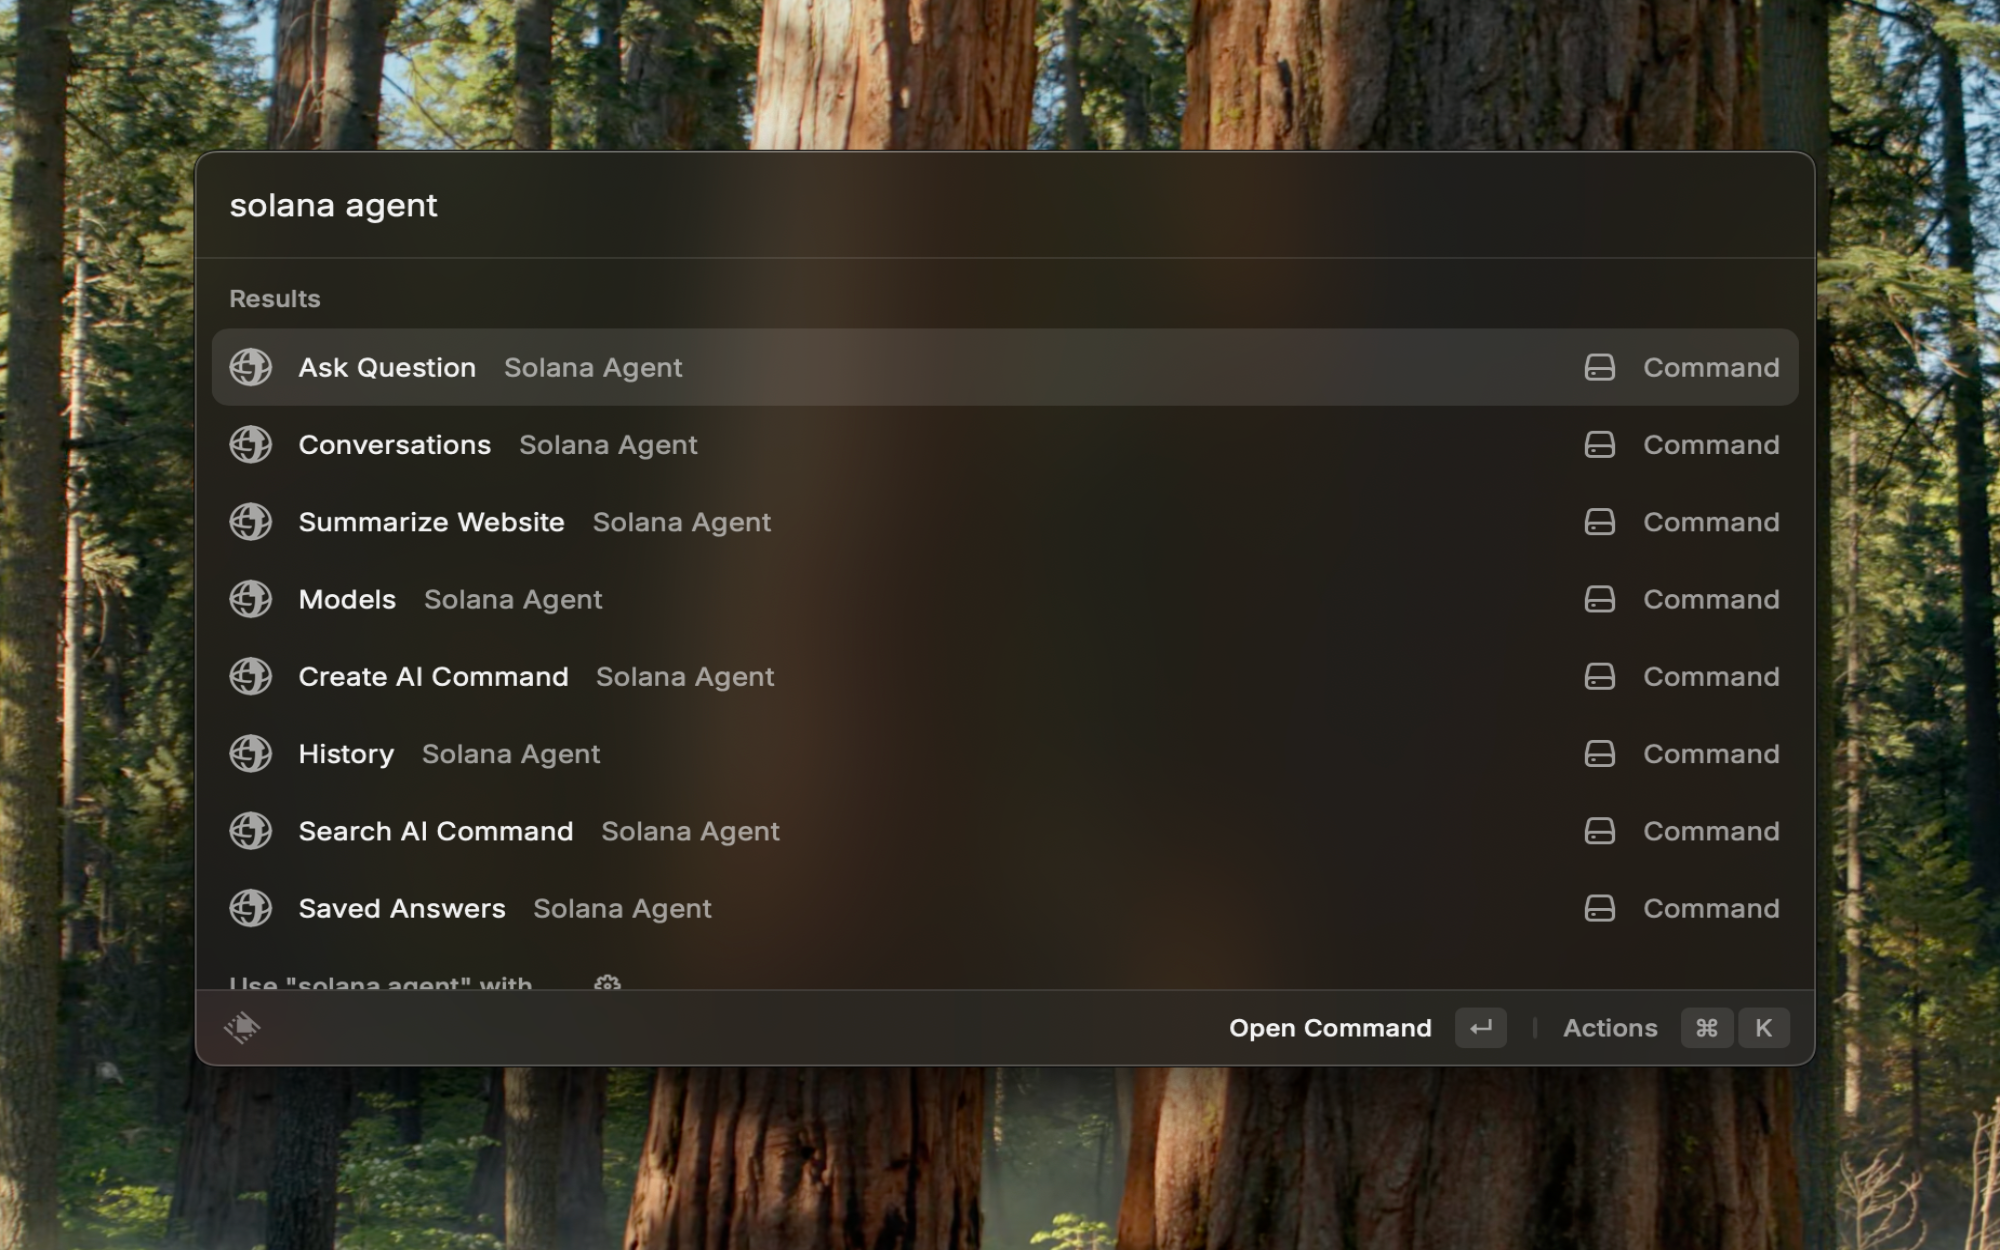
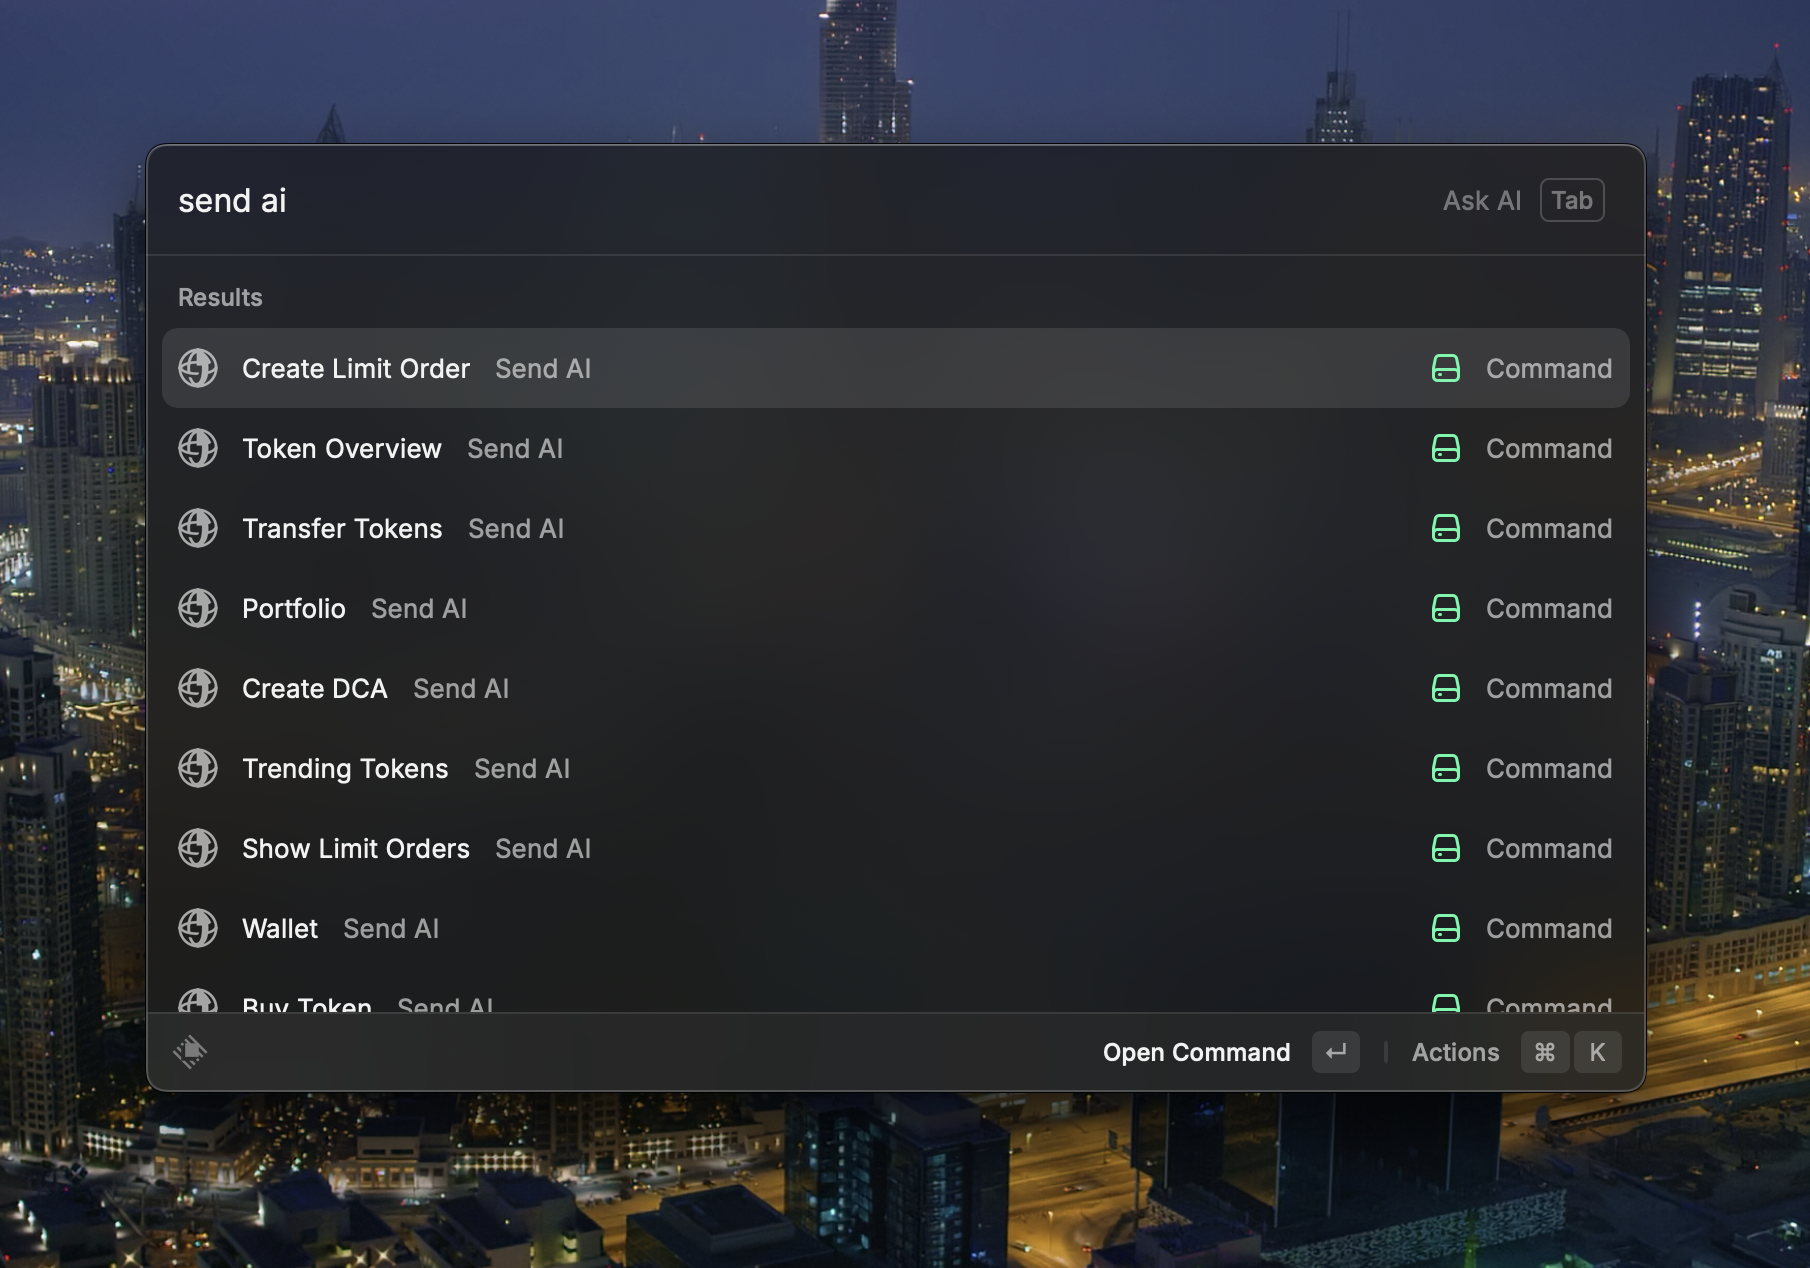
update: readme

diff --git a/README.md b/README.md
@@ -2,80 +2,97 @@
 <img width=100 src="assets/icon@dark.png">
 </p>
 
-<h1 align="center">Solana Agent</h1>
+<h1 align="center">Send AI</h1>
 
 <h3 align="center">
-Interact with the Solana blockchain from Raycast using AI models
+Interact with the Solana blockchain from Raycast using AI
 </h3>
 
 ![Conversation View](metadata/1.png)
 
-# Features
+# Overview
 
-### Ask anything
+Send AI is a Raycast extension that allows you to interact with the Solana blockchain using natural language commands. Manage your wallet, trade tokens, check portfolios, and perform various DeFi operations directly from Raycast.
 
-Interact with your Solana wallet straight from Raycast. Ask anything about your wallet, balance, carry out swaps, transfers, and more.
+# Commands
 
-![Ask anything](metadata/2.png)
+## Trading & Wallet Management
 
-### Personalized for you, really
+- **Buy Token** - Purchase tokens using SOL
+- **Sell Token** - Sell your tokens for SOL
+- **Transfer SPL** - Transfer SPL tokens to another wallet address
+- **Get Wallet** - View your Send AI wallet information
+- **Get Portfolio** - View your complete token portfolio
 
-Customize the model to your liking. Create and edit custom engines beyond your creativity.
+## Token Information
 
-![Custom model](metadata/3.png)
+- **Token Overview** - Get detailed information about any token
+- **Trending Tokens** - View the current trending tokens on Solana
 
-### Keep continue, with you
+## Advanced Trading
 
-Continue talking about everything right where you left off. Be pro without from zero.
+- **Create DCA** - Set up Dollar Cost Averaging orders
+- **Create Limit Order** - Create limit orders for trading
+- **Show Limit Orders** - View all your active limit orders
 
-![Initial set-up](metadata/7.png)
+# AI Actions
 
-### Use AI commands and create your own
+The extension includes powerful AI actions that you can trigger with natural language:
 
-Process text taken from anywhere (selected text, clipboard text, opened web page) and
-insert the result into the frontmost application or copy it to the clipboard.
+## Balance & Portfolio
 
-![Search AI commands and create a quicklink to the command and use it easily](metadata/8.png)
+- **Balance** - Check your SOL balance
+- **Get SOL Balance** - Get your SOL balance specifically
+- **Get Token Balance** - Check balances of all your tokens
+- **Get Portfolio** - View your complete portfolio with USD values
 
-# Models
+## Trading Operations
 
-GPT-4o model supports vision capabilities, which can be enabled in the Models Command when creating or editing a model.
+- **Buy Token** - Buy tokens using SOL with natural language
+- **Sell Token** - Sell tokens for SOL
+- **Fetch Price** - Get current token prices in USDC
+- **Get Price History** - View token price charts and history
 
-### Custom Models
+## Transfers
 
-Modify the preferences properties to configure the API Endpoint and use custom models.
+- **Transfer** - Send SOL to another wallet address
+- **Transfer SPL** - Transfer SPL tokens to another address
+- **Get Wallet Address** - Get your wallet's public key
 
-# How to use
+## Token Information
 
-This extension requires a valid `API key` as your API Key from [OpenAI](https://platform.openai.com/account/api-keys) with a `pay-as-you-go` plan account (**you'll get a `429` error if you're on a `free-tier` account**), a valid base 58 `Secret Key` secret key for your Solana wallet, and a valid RPC URL for the Solana mainnet network.
+- **Get Token** - Get comprehensive token information
+- **Get Token Data by Ticker** - Look up tokens by their symbol/ticker
+- **Get Trending Tokens** - Fetch currently trending tokens
+- **Rugcheck** - Check if a token is potentially a rug pull
 
-![Initial set-up](metadata/6.png)
+## DeFi & Advanced Features
 
-> All the preferences value will be stored locally using [Preferences API](https://developers.raycast.com/api-reference/preferences)
+- **Bridge** - Generate cross-chain bridge URLs
+- **Onramp** - Create MoonPay URLs to buy SOL with fiat
+- **Get Top LST** - View top Liquid Staking Tokens
+- **Lulo Get APY** - Check APY rates on Lulo protocol
+- **Lulo Lend** - Lend tokens through Lulo protocol
+- **Sanctum Get LST APY** - Get LST APY rates on Sanctum
 
-# Preferences
+## Token Creation
 
-All preferences properties list that can be customize through `Raycast Settings > Extensions > Solana Agent`
+- **Launch Pump Fun Token** - Create and launch new tokens on Pump.fun
 
-| Properties               | Label                  | Value                               | Required | Default | Description                                                                                                      |
-| ------------------------ | ---------------------- | ----------------------------------- | -------- | ------- | ---------------------------------------------------------------------------------------------------------------- |
-| `apiKey`                 | API Key                | `string`                            | `true`   | `empty` | Your personal OpenAI API key                                                                                     |
-| `rpcUrl`                 | RPC URL                | `string`                            | `true`   | `empty` | Your Solana RPC URL                                                                                              |
-| `isAutoSaveConversation` | Auto-save Conversation | `boolean`                           | `true`   | `true`  | Auto-save every conversation that you had with the model                                                         |
-| `isHistoryPaused`        | Pause History          | `boolean`                           | `false`  | `false` | Pause the history of the conversation                                                                            |
-| `isAutoLoadText`         | Auto-load              | `boolean`                           | `false`  | `false` | Load selected text from your frontmost application to the `question bar` or `full text input form` automatically |
-| `isAutoFullInput`        | Use Full Text Input    | `boolean`                           | `false`  | `false` | Switch to `full text input form` from `question bar` automatically whenever you want to ask or type a question   |
-| `isAutoTTS`              | Text-to-Speech         | `boolean`                           | `false`  | `false` | Enable auto text-to-speech everytime you get a generated answer                                                  |
-| `useApiEndpoint`         | Use API Endpoint       | `boolean`                           | `false`  | `false` | Change the OpenAI's default API endpoint to custom endpoint                                                      |
-| `apiEndpoint`            | API Endpoint           | `string`                            | `false`  | `empty` | Custom API endpoint                                                                                              |
-| `useProxy`               | Use Proxy              | `boolean`                           | `false`  | `false` | Each question request will be passed through the proxy                                                           |
-| `proxyProtocol`          | Proxy Protocol         | `http`, `https`, `socks4`, `socks5` | `false`  | `http`  | Proxy protocol option                                                                                            |
-| `proxyHost`              | Proxy Host             | `string`                            | `false`  | `empty` | Proxy host value                                                                                                 |
-| `proxyUsername`          | Proxy Username         | `string`                            | `false`  | `empty` | Proxy username value                                                                                             |
-| `proxyPassword`          | Proxy Password         | `string`                            | `false`  | `empty` | Proxy password value                                                                                             |
-| `useAzure`               | Use Azure OpenAI       | `boolean`                           | `true`   | `false` | Use Azure OPENAI rather than OPENAI                                                                              |
-| `azureEndpoint`          | Azure Endpoint         | `string`                            | `false`  | `empty` | Azure OpenAI resource endpoint                                                                                   |
-| `azureDeploymentName`    | Azure Deployment       | `string`                            | `false`  | `empty` | Azure OpenAI resource deployment                                                                                 |
+# Usage Examples
+
+Simply type natural language commands to interact with your Solana wallet:
+
+- "Buy 10 SEND tokens"
+- "What's my SOL balance?"
+- "Show me trending tokens"
+- "Transfer 5 USDC to [wallet-address]"
+- "What's the price history of SOL?"
+- "Check if this token is safe"
+
+# Setup
+
+This extension requires:
 
 ---
 
